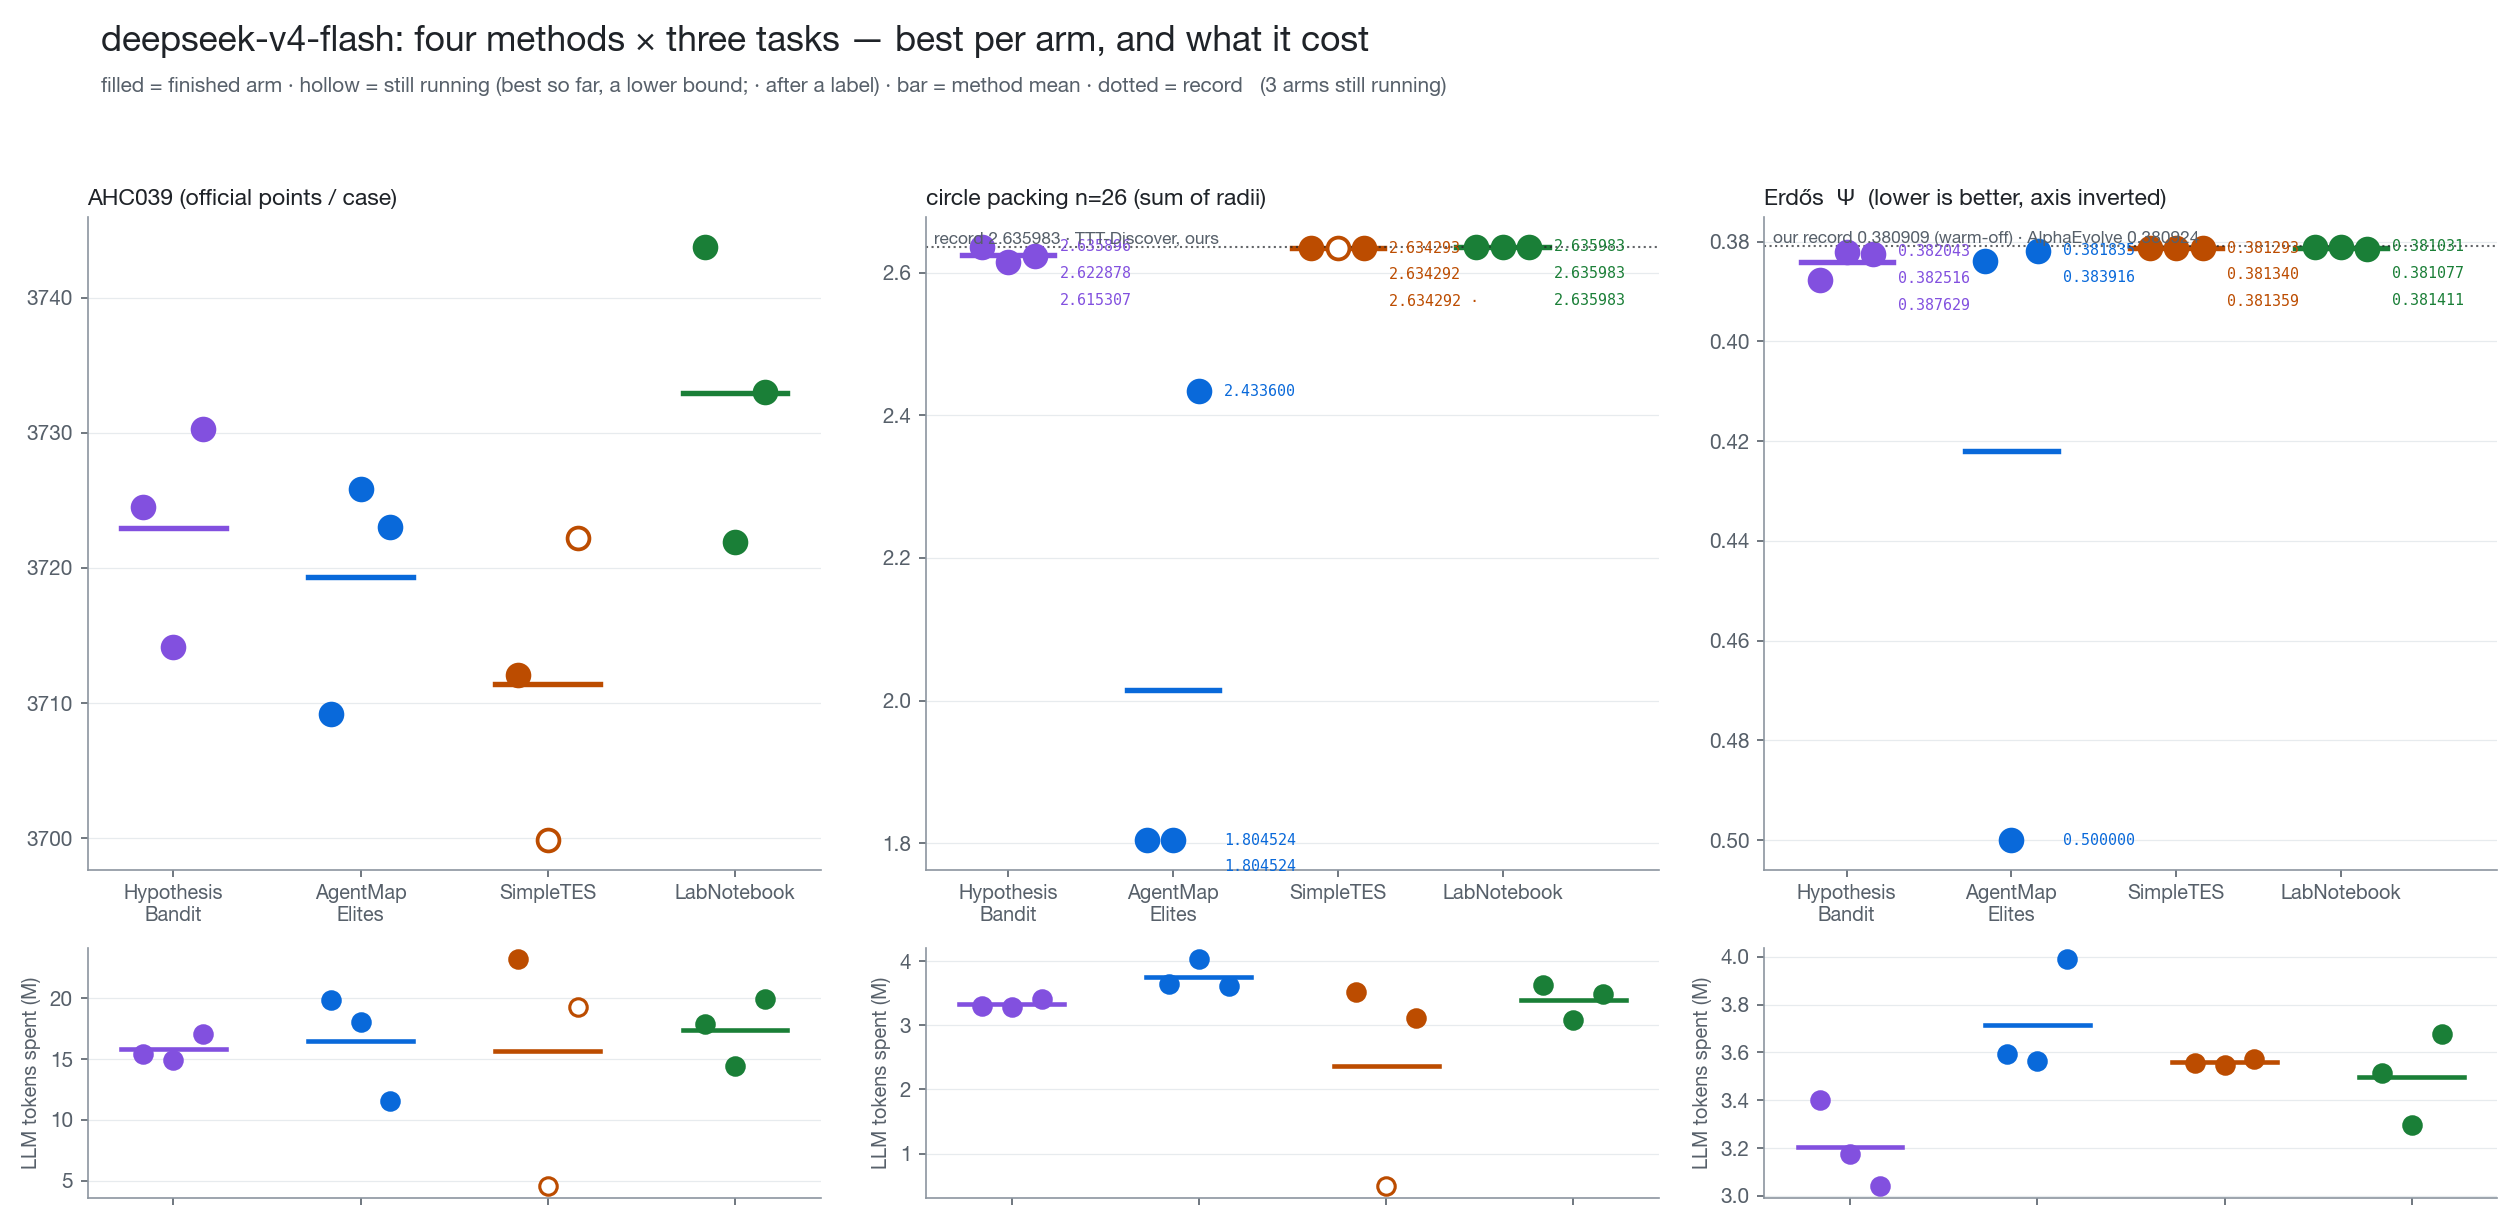
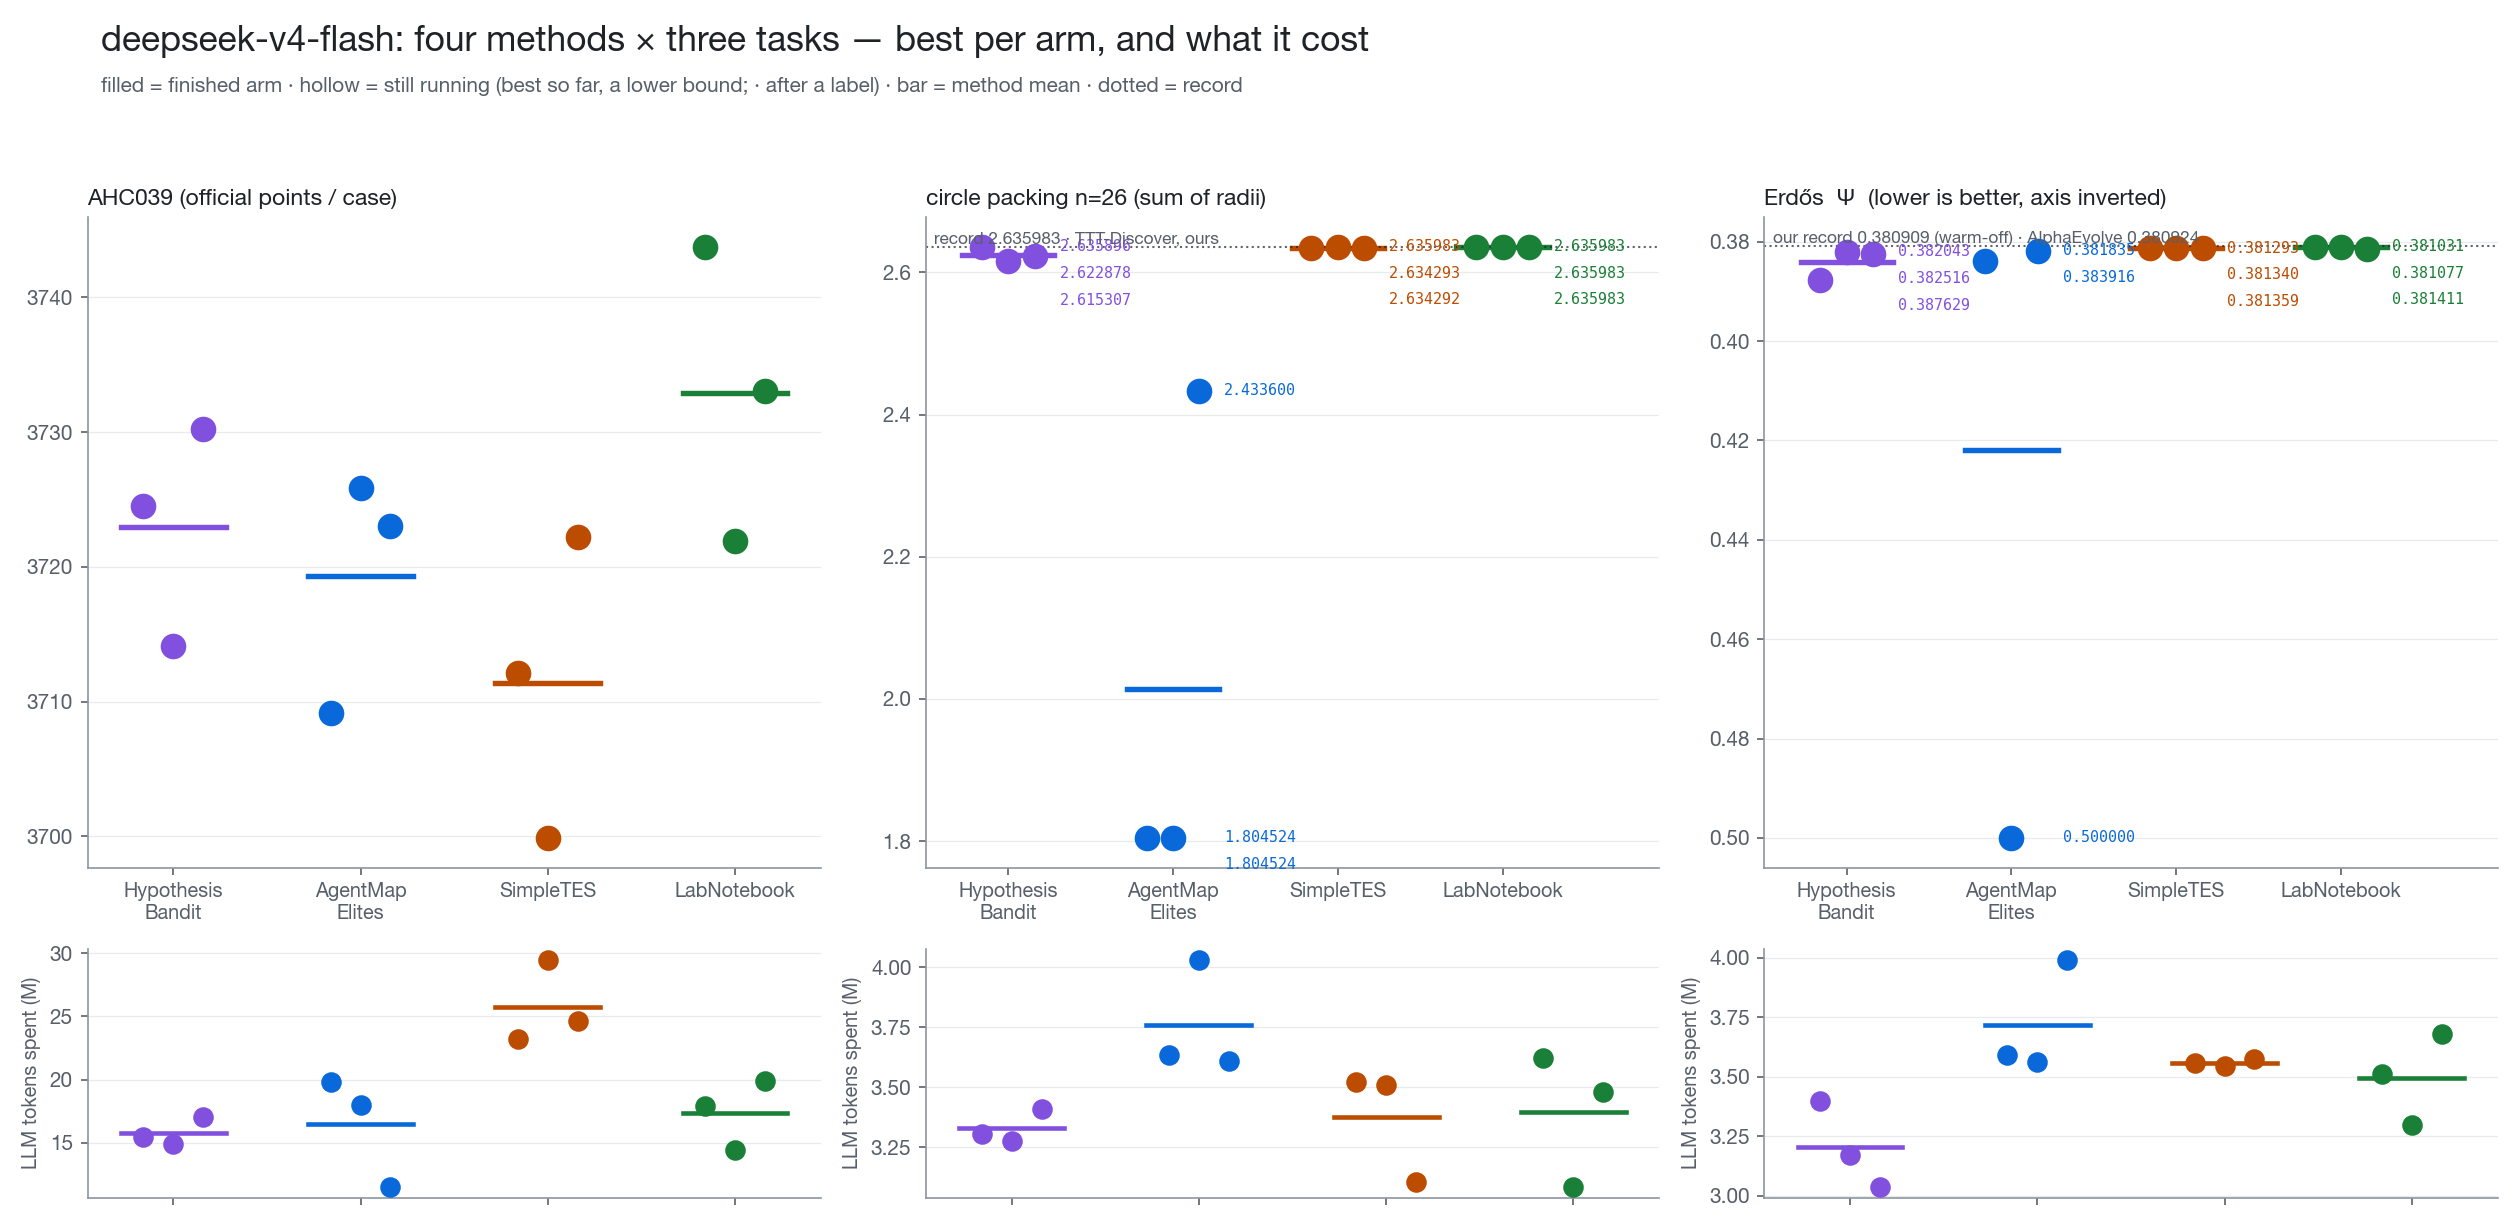
docs(evolution): flash campaign final (all 36 arms) in the LabNotebook results

diff --git a/examples/evolution_bench/docs/lab_notebook_results.tex b/examples/evolution_bench/docs/lab_notebook_results.tex
@@ -33,8 +33,9 @@ separate eval server.
 \label{sec:flash}
 
 \begin{table}[H]\centering\small
-\caption{deepseek-v4-flash. Best per arm (s0 / s1 / s2), method mean, and mean LLM tokens spent
-(millions). $^\circ$ = still running after a Modal preemption restarted the arm (lower bound).}
+\caption{deepseek-v4-flash, all 36 arms finished. Best per arm (s0 / s1 / s2), method mean, and mean
+LLM tokens spent (millions). SimpleTES's AHC039 s1/s2 and packing s1 were restarted after Modal
+preemptions and resumed from checkpoints; their token figures include the interrupted runs.}
 \label{tab:flash}
 \begin{tabular}{@{}lrrrrr@{}}
 \toprule
@@ -43,14 +44,14 @@ method & s0 & s1 & s2 & mean & tokens \\
 \midrule
 HypothesisBandit & 3724 & 3714 & 3730 & 3723 & 15.8 \\
 AgentMapElites & 3709 & 3726 & 3723 & 3719 & 16.5 \\
-SimpleTES & 3712 & 3700$^\circ$ & 3722$^\circ$ & 3711 & 15.7 \\
+SimpleTES & 3712 & 3700 & 3722 & 3711 & 25.8 \\
 \textbf{LabNotebook} & \textbf{3744} & 3722 & 3733 & \textbf{3733} & 17.4 \\
 \midrule
 \multicolumn{6}{@{}l}{\textbf{circle packing $n{=}26$} --- sum of radii, record 2.635983} \\
 \midrule
 HypothesisBandit & 2.635896 & 2.615307 & 2.622878 & 2.624694 & 3.3 \\
 AgentMapElites & 1.804524 & 1.804524 & 2.433600 & 2.014216 & 3.8 \\
-SimpleTES & 2.634292 & 2.634292$^\circ$ & 2.634293 & 2.634292 & 2.4 \\
+SimpleTES & 2.634292 & 2.635983 & 2.634293 & 2.634856 & 3.4 \\
 \textbf{LabNotebook} & \textbf{2.635983} & \textbf{2.635983} & \textbf{2.635983} & \textbf{2.635983} & 3.4 \\
 \midrule
 \multicolumn{6}{@{}l}{\textbf{Erd\H{o}s} --- $\Psi$, lower is better, record 0.380909} \\
@@ -65,9 +66,9 @@ SimpleTES & 0.381340 & 0.381359 & 0.381293 & 0.381331 & 3.6 \\
 
 \begin{figure}[H]\centering
 \includegraphics[width=\textwidth]{lab_notebook_figs/overview_flash.png}
-\caption{Flash campaign: one marker per arm, bar = method mean, dotted = record; the lower row is
-what each arm spent. LabNotebook holds the best mean on all three tasks, the record on 3/3
-packing arms, and the tightest replicate spread.}
+\caption{Flash campaign, all arms finished: one marker per arm, bar = method mean, dotted = record; the
+lower row is what each arm spent. LabNotebook holds the best mean on all three tasks, the record on
+3/3 packing arms (SimpleTES 1/3), and the tightest replicate spread.}
 \end{figure}
 
 \begin{figure}[H]\centering
@@ -279,15 +280,15 @@ called LabNotebook the cheapest method; that was read from partial arms and is w
   changes what gets explored.
 \item \textbf{Where it is a tie: known optima.} Circle packing and Erd\H{o}s reduce to finding a
   known local optimum; once the inner optimizer is right, every method lands on it. LabNotebook is
-  never worse and its replicates are tighter (3/3 record on flash packing; pro Erd\H{o}s within
-  0.00006), which in practice means fewer wasted runs.
+  never worse and its replicates are tighter (3/3 record on flash packing against SimpleTES's 1/3;
+  pro Erd\H{o}s within 0.00006), which in practice means fewer wasted runs.
 \item \textbf{Where SimpleTES is better: exploiting an incumbent.} Under a warm start SimpleTES
   improves on every seed and LabNotebook gets worse on two of three. The fix is cheap
   ($p_{\text{best}}\to1$ and a smaller $K$ when a warm start is present) but has not been run.
 \item \textbf{AlphaEvolve suite.} Packing $n{=}32$: LabNotebook on the record 3/3, SimpleTES 2/3.
   $C_2$ is LabNotebook's on every replicate; $C_1$ is SimpleTES's by 0.0003 in the mean --- a tie.
   Both are behind the 2026 systems by margins their extra compute explains.
-\item \textbf{Limits of the evidence.} Three arms per cell; model sampling unseeded; the SimpleTES
+\item \textbf{Limits of the evidence.} Three arms per cell; model sampling unseeded; the pro SimpleTES
   AHC039 arms are lower bounds after preemptions; and the ablation that would attribute the effect
   --- LabNotebook with random ideas and no notebook, same budget --- has not been run.
 \end{itemize}
